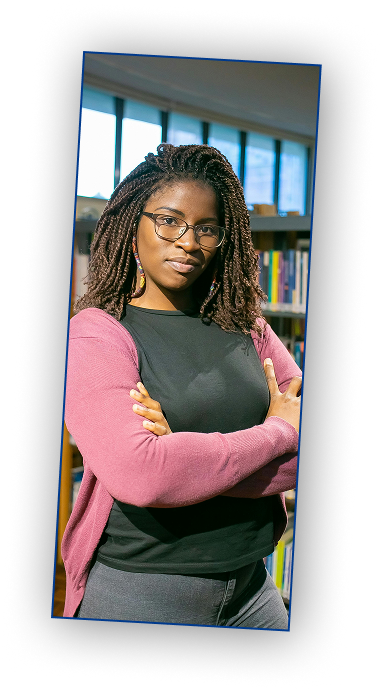
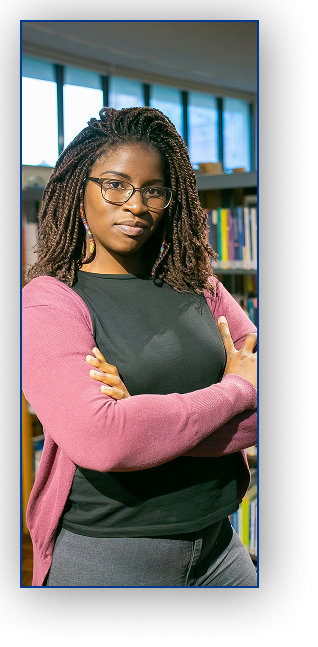
header

diff --git a/components/home/Header.tsx b/components/home/Header.tsx
@@ -1,62 +1,67 @@
-"use client";
-import Image from "next/image";
-// import { useState } from "react";
-import { Button } from "@/components/ui/button";
-// import IcyChat from "./chatbot"; 
+import Image from "next/image"
+import { Button } from "@/components/ui/button"
 
-export default function Header() {
+export default function CAExamHero() {
   return (
-    <section className="w-full bg-white py-12 md:py-16 lg:py-20">
-      <div className="px-4 sm:px-6 md:px-12 lg:px-20 xl:px-[200px]">
-        <div className="grid gap-10 lg:grid-cols-2 lg:gap-16 items-center">
-          {/* Left Content */}
-          <div className="space-y-5">
-            <h1 className="text-3xl font-bold tracking-tight sm:text-4xl md:text-5xl leading-tight">
-              Ace Your CA & CMA Exams With Expert Test Series & Counseling
+    <section className="w-full bg-white py-16 md:py-24 lg:py-28">
+      <div className="container mx-auto px-4 md:px-6">
+        <div className="grid items-center gap-12 lg:grid-cols-2">
+          {/* Text Content */}
+          <div className="space-y-6 max-w-2xl">
+            <h1 className="text-4xl font-bold tracking-tight sm:text-5xl lg:text-6xl leading-tight">
+              Ace Your CA & CMA Exams <br className="hidden sm:block" />
+              With Expert Test Series & Counseling
             </h1>
-            <p className="text-gray-600 md:text-xl lg:text-lg xl:text-xl max-w-2xl">
-              Get access to top-quality test series, expert counseling, and study materials to ensure your success.
+            <p className="text-gray-600 text-lg sm:text-xl">
+              Get access to top-quality test series, expert counseling and study materials to ensure your success
             </p>
-            <div className="flex flex-col sm:flex-row gap-3">
-              <Button className="bg-blue-600 hover:bg-blue-700 w-full sm:w-auto">
-                Start Free Trial
-              </Button>
-              <Button
-                variant="outline"
-                className="border-blue-600 text-blue-600 hover:bg-blue-50 w-full sm:w-auto"
-              >
+            <div className="flex flex-col sm:flex-row gap-4">
+              <Button className="bg-blue-600 hover:bg-blue-700">Start Free Trial</Button>
+              <Button variant="outline" className="border-blue-600 text-blue-600 hover:bg-blue-50">
                 Book an Appointment
               </Button>
             </div>
           </div>
 
-          {/* Right Image Collage */}
-          <div className="flex justify-center lg:justify-end">
-            <div className="relative flex gap-3 md:gap-4">
-              <div className="relative h-[280px] w-[120px] sm:h-[320px] sm:w-[140px] md:h-[350px] md:w-[160px] overflow-hidden rounded-xl shadow-lg transform rotate-[-5deg]">
+          {/* Image Stack */}
+          <div className="relative w-full flex items-center justify-center h-[360px] sm:h-[420px] md:h-[500px] lg:h-[600px]">
+            {/* Left Image */}
+            <div className="absolute left-0 sm:-left-4 md:-left-6 lg:-left-8 transform rotate-[-8deg] z-10">
+              <div className="w-[140px] h-[240px] sm:w-[180px] sm:h-[300px] md:w-[220px] md:h-[400px] lg:w-[290px] lg:h-[600px] overflow-hidden rounded-xl shadow-lg">
                 <Image
                   src="/header-1.png"
-                  alt="Student in library"
-                  fill
-                  className="object-cover rotate-[7deg]"
+                  alt="Student Left"
+                  width={290}
+                  height={600}
+                  className="object-cover w-full h-full"
                   priority
                 />
               </div>
-              <div className="relative h-[280px] w-[120px] sm:h-[320px] sm:w-[140px] md:h-[350px] md:w-[160px] overflow-hidden rounded-xl shadow-lg transform translate-y-4">
+            </div>
+
+            {/* Middle Image */}
+            <div className="z-20 transform scale-105">
+              <div className="w-[150px] h-[250px] sm:w-[190px] sm:h-[320px] md:w-[240px] md:h-[420px] lg:w-[290px] lg:h-[600px] overflow-hidden rounded-xl shadow-2xl rotate-3">
                 <Image
                   src="/header-2.png"
-                  alt="Student with crossed arms"
-                  fill
-                  className="object-cover rotate-[-4deg]"
+                  alt="Student Middle"
+                  width={290}
+                  height={600}
+                  className="object-cover w-full h-full"
                   priority
                 />
               </div>
-              <div className="relative h-[280px] w-[140px] sm:h-[320px] sm:w-[160px] md:h-[350px] md:w-[160px] overflow-hidden rounded-xl shadow-lg transform rotate-[5deg]">
+            </div>
+
+            {/* Right Image */}
+            <div className="absolute right-0 sm:-right-4 md:-right-6 lg:-right-8 transform rotate-[-8deg] z-30">
+              <div className="w-[140px] h-[240px] sm:w-[180px] sm:h-[300px] md:w-[220px] md:h-[400px] lg:w-[290px] lg:h-[600px] overflow-hidden rounded-xl shadow-lg">
                 <Image
                   src="/header-3.png"
-                  alt="Student in study area"
-                  fill
-                  className="object-cover rotate-6"
+                  alt="Student Right"
+                  width={290}
+                  height={600}
+                  className="object-cover w-full h-full"
                   priority
                 />
               </div>
@@ -65,5 +70,5 @@ export default function Header() {
         </div>
       </div>
     </section>
-  );
+  )
 }

diff --git a/app/page.tsx b/app/page.tsx
@@ -19,7 +19,7 @@ export default function Home() {
   return (
     <>
       {/* Main layout container */}
-      <main className="max-w-5xl mx-auto px-4 py-8">
+      <main className="overflow-hidden">
         <Header />
         <AboutUs />
         <TestSeries />
